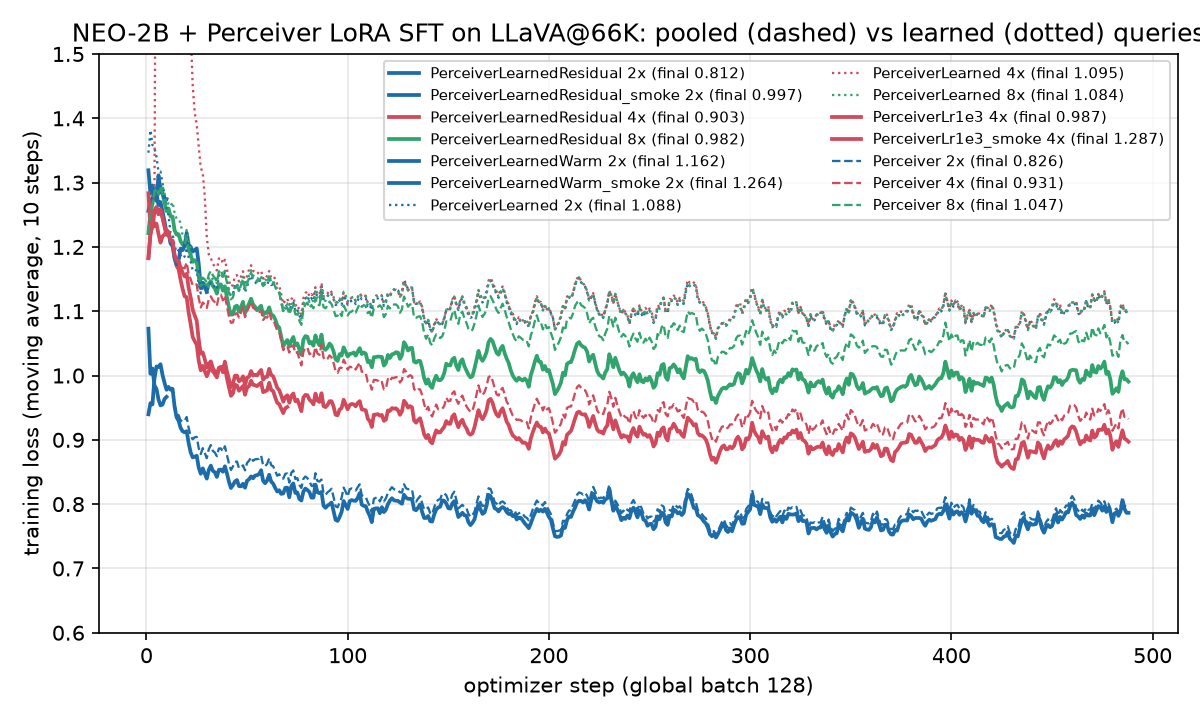
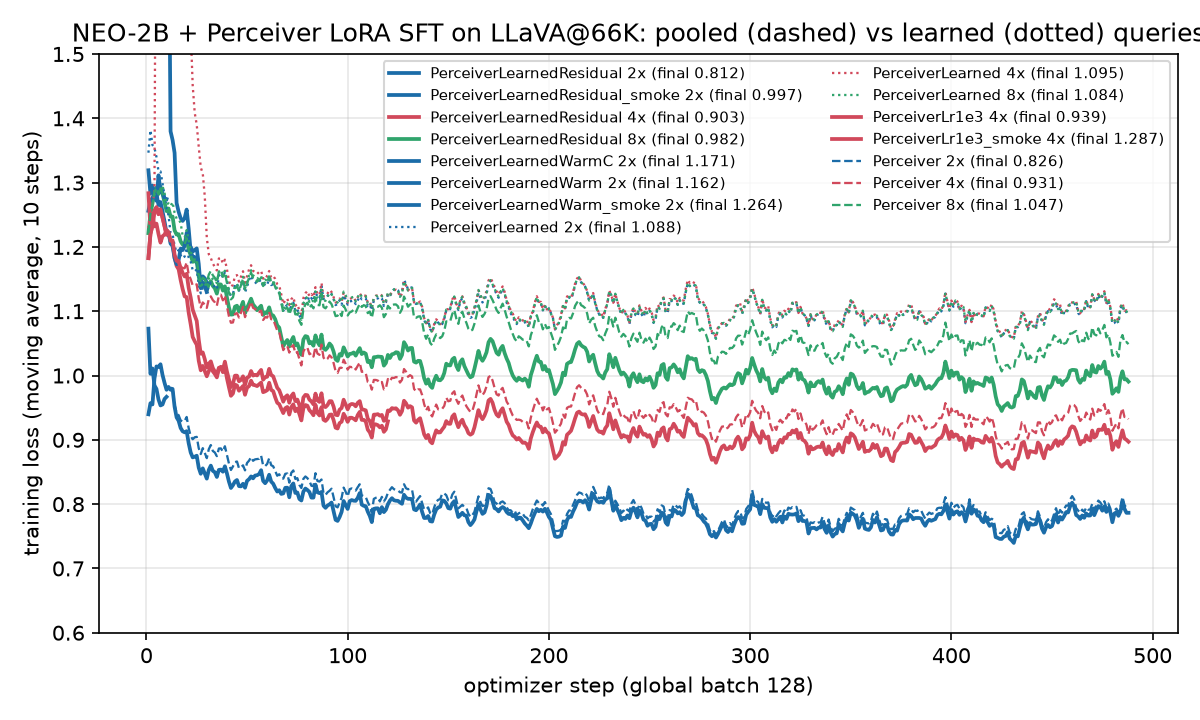
perceiver-learned: e010 DONE, NO-GO (steps 25-37 mean 1.158, +0.015 vs uncentred warm; step-1 loss 5.35; probe 8495437: outputs re-collapse to cosine 0.9995 by step 30, item 3 closed in all forms); e009 seg1 at step 127 (paired -0.009 vs learned_residual 4x); e011 = 8x lr-only pooled control (record

diff --git a/research/experiments/perceiver-learned/RESULTS.md b/research/experiments/perceiver-learned/RESULTS.md
@@ -1,16 +1,17 @@
 # Results: perceiver-learned
 
-Generated by research-results from 10 records. Do not edit by hand.
+Generated by research-results from 11 records. Do not edit by hand.
 
-| id | batch | parent | status | sha | gpu_hours | loss_learned_trained | loss_learned_zeros | loss_learned_noise | loss_pooled_trained | loss_pooled_zeros | loss_base_fixed2x | loss_base_fixed2x_zeros | loss_base_learned_init | loss_base_none | learned_output_pairwise_cosine | learned_init_output_pairwise_cosine | learned_attn_entropy_over_logN | pooled_output_pairwise_cosine | pooled_attn_entropy_over_logN | learned_latents_rms_after_training | smoke_loss_steps1to5_mean | smoke_loss_max_steps1to16 | smoke_sec_per_step | resume_step11_loss_delta | final_loss_ma10 | final_loss_ma50 | pooled2x_final_loss_ma10 | train_sec_per_step | train_hours | mmbench | docvqa | pooled2x_mmbench | pooled2x_docvqa | gate_passed | probe_residual_trained | probe_residual_no_latents | probe_residual_fixed | probe_residual_zeros | probe_pooled_trained | probe_delta_trained_minus_no_latents | probe_delta_trained_minus_fixed | probe_delta_trained_minus_pooled | latent_term_rms_over_pooled_query_rms | latents_rms | attn_gate_tanh | mlp_gate_tanh | residual_attn_entropy_over_logN | residual_attn_max_weight | residual_output_cosine_to_fixed_pooling | residual_output_rel_rms_change_from_fixed_pooling | mlp_branch_rms_unit_input | implied_native_token_rms | mme | mmmu | rwqa | textvqa | ocrbench | chartqa | pooled2x_mme | pooled2x_mmmu | pooled2x_rwqa | pooled2x_textvqa | pooled2x_ocrbench | pooled2x_chartqa | steps_done | sec_per_step | pooled4x_final_loss_ma10 | collapsed4x_final_loss_ma10 | paired_vs_pooled4x_steps1to488 | paired_vs_pooled4x_steps326to488 | paired_vs_pooled4x_sd_steps326to488 | paired_vs_collapsed4x_steps1to488 | pooled4x_mmbench | pooled4x_mme | pooled4x_mmmu | pooled4x_rwqa | pooled4x_textvqa | pooled4x_docvqa | pooled4x_ocrbench | pooled4x_chartqa | item4_criterion_met | warm_native_rms | warm_mean_grid_rms_raw | warm_mean_grid_spatial_dev_rms | warm_scale | warm_n_images | smoke_loss_steps6to10_mean | smoke_loss_steps11to15_mean | smoke_loss_max_steps1to15 | smoke_steps_done | resid_smoke_steps11to15_mean | collapsed2x_steps11to15_mean | chain_submitted | pooled8x_final_loss_ma10 | collapsed8x_final_loss_ma10 | paired_vs_pooled8x_steps1to200 | paired_vs_pooled8x_steps1to488 | paired_vs_pooled8x_steps326to488 | paired_vs_pooled8x_sd_steps326to488 | paired_vs_collapsed8x_steps1to488 | pooled8x_mmbench | pooled8x_mme | pooled8x_mmmu | pooled8x_rwqa | pooled8x_textvqa | pooled8x_docvqa | pooled8x_ocrbench | pooled8x_chartqa | eval_tasks_done | eval_gpu_hours | predictions_hit | predictions_total | loss_steps1to5_mean | loss_steps6to10_mean | loss_steps11to24_mean | loss_steps25to37_mean | loss_steps1to39_mean | collapsed2x_steps25to37_mean | pooled2x_steps25to37_mean | resid2x_steps25to37_mean | paired_vs_collapsed_steps25to37 | paired_vs_collapsed_sd | paired_vs_pooled_steps25to37 | o_proj_weight_rms_step30 | o_proj_weight_rms_pooled_trained | mlp2_weight_rms_step30 | mlp2_weight_rms_pooled_trained | latents_delta_rms_step30 | loss_warm_trained | loss_warm_zeros | loss_warm_noise | loss_warm_init_trained | paired_warm_minus_zeros | paired_warm_minus_noise | paired_warm_minus_learned | paired_warm_minus_warm_init | warm30_attn_entropy_over_logN | warm30_attn_max_weight | warm30_output_pairwise_cosine | warm30_query_pairwise_cosine | warm30_output_cosine_to_fixed_pooling | warm30_output_rms_over_native_rms | warm_init_attn_entropy_over_logN | warm_init_attn_max_weight | warm_init_output_pairwise_cosine | warm_init_output_cosine_to_fixed_pooling | smoke_steps | smoke_loss_mean_1to5 | smoke_loss_max | smoke_grad_norm_max | seg1_sec_per_step | seg1_steps1to2_bit_identical_to_pooled4x | seg1_step30_paired_vs_pooled4x_1to30 | seg1_step30_paired_vs_learned_residual4x_1to30 | seg1_step30_paired_vs_pooled4x_21to30 | seg1_step70_paired_vs_pooled4x_1to70 | seg1_step70_paired_vs_learned_residual4x_1to70 | seg1_step70_paired_vs_pooled4x_41to70 | seg1_step70_paired_vs_learned_residual4x_41to70 | init_latent_rms_before | init_latent_rms_after | init_spatial_dev_rms | init_cell_pairwise_cosine_before | init_cell_pairwise_cosine_after | hypothesis |
-|---|---|---|---|---|---|---|---|---|---|---|---|---|---|---|---|---|---|---|---|---|---|---|---|---|---|---|---|---|---|---|---|---|---|---|---|---|---|---|---|---|---|---|---|---|---|---|---|---|---|---|---|---|---|---|---|---|---|---|---|---|---|---|---|---|---|---|---|---|---|---|---|---|---|---|---|---|---|---|---|---|---|---|---|---|---|---|---|---|---|---|---|---|---|---|---|---|---|---|---|---|---|---|---|---|---|---|---|---|---|---|---|---|---|---|---|---|---|---|---|---|---|---|---|---|---|---|---|---|---|---|---|---|---|---|---|---|---|---|---|---|---|---|---|---|---|---|---|---|---|---|---|---|---|---|---|---|---|---|---|---|---|---|---|---|---|
-| e001 | b001 |  | done | 94091f4 | 0.1 | 0.9583 | 1.224 | 1.025 | 0.6443 | 1.341 | 0.8225 | 1.431 | 1.22 | 0.7184 | 0.9999 | 0.9953 | 0.9902 | 0.69 | 0.957 | 0.02 |  |  |  |  |  |  |  |  |  |  |  |  |  |  |  |  |  |  |  |  |  |  |  |  |  |  |  |  |  |  |  |  |  |  |  |  |  |  |  |  |  |  |  |  |  |  |  |  |  |  |  |  |  |  |  |  |  |  |  |  |  |  |  |  |  |  |  |  |  |  |  |  |  |  |  |  |  |  |  |  |  |  |  |  |  |  |  |  |  |  |  |  |  |  |  |  |  |  |  |  |  |  |  |  |  |  |  |  |  |  |  |  |  |  |  |  |  |  |  |  |  |  |  |  |  |  |  |  |  |  |  |  |  |  |  |  |  |  |  |  |  |  |  |  | Tests cause (a) of the direction doc (signal, not optimisation): the LLM under the PerceiverLearned-2x LoRA has |
-| e002 | b002 | e001 | done | 43311d8 | 14.98 |  |  |  |  |  |  |  |  |  |  |  |  |  |  |  | 0.979 | 1.094 | 89 | 0 | 0.7865 | 0.7835 | 0.7948 | 86.9 | 12 | 73.37 | 40 | 74.31 | 37.33 | 1 |  |  |  |  |  |  |  |  |  |  |  |  |  |  |  |  |  |  |  |  |  |  |  |  |  |  |  |  |  |  |  |  |  |  |  |  |  |  |  |  |  |  |  |  |  |  |  |  |  |  |  |  |  |  |  |  |  |  |  |  |  |  |  |  |  |  |  |  |  |  |  |  |  |  |  |  |  |  |  |  |  |  |  |  |  |  |  |  |  |  |  |  |  |  |  |  |  |  |  |  |  |  |  |  |  |  |  |  |  |  |  |  |  |  |  |  |  |  |  |  |  |  |  |  |  |  |  |  |  |  | Tests causes (a)+(b) together (backlog item 2): a Perceiver whose learned latent queries are a zero-initialised |
-| e003 | b003 | e002 | done | 12a1540 | 2.44 |  |  |  |  |  |  |  |  |  |  |  |  |  |  |  |  |  |  |  |  |  |  |  |  | 73.37 | 40 |  |  |  | 0.635 | 0.6361 | 0.6661 | 1.332 | 0.6443 | -0.001 | -0.0311 | -0.0093 | 0.0023 | 0.0129 | 0.0001 | 0.01 | 0.0255 | 0.928 | 0.946 | 0.33 | 19.4 | 4.66 | 1527 | 47 | 59.22 | 33.42 | 20.7 | 40.24 | 1524 | 46.89 | 57.65 | 32.38 | 20.8 | 40.12 |  |  |  |  |  |  |  |  |  |  |  |  |  |  |  |  |  |  |  |  |  |  |  |  |  |  |  |  |  |  |  |  |  |  |  |  |  |  |  |  |  |  |  |  |  |  |  |  |  |  |  |  |  |  |  |  |  |  |  |  |  |  |  |  |  |  |  |  |  |  |  |  |  |  |  |  |  |  |  |  |  |  |  |  |  |  |  |  |  |  |  |  |  |  |  |  |  |  |  |  | Follow-up to e002 (cause (b) fixed by construction, gate passed). Two questions. (1) Mechanism: the latents of the |
-| e004 | b004 | e002 | done | 12a1540 | 16.81 |  |  |  |  |  |  |  |  |  |  |  |  |  |  |  |  |  |  |  | 0.897 | 0.9022 |  |  | 12.25 | 66.92 | 16.23 |  |  |  |  |  |  |  |  |  |  |  |  |  |  |  |  |  |  |  |  |  | 1408 | 44 | 52.03 | 16.77 | 3.6 | 22.36 |  |  |  |  |  |  | 488 | 87.2 | 0.9323 | 1.096 | -0.0433 | -0.0333 | 0.0105 | -0.2389 | 64.6 | 1371 | 44.67 | 51.37 | 15.63 | 14.27 | 2.8 | 21.52 | 0 |  |  |  |  |  |  |  |  |  |  |  |  |  |  |  |  |  |  |  |  |  |  |  |  |  |  |  |  |  |  |  |  |  |  |  |  |  |  |  |  |  |  |  |  |  |  |  |  |  |  |  |  |  |  |  |  |  |  |  |  |  |  |  |  |  |  |  |  |  |  |  |  |  |  |  |  |  |  |  |  |  |  |  | Backlog item 4, first half: the fix of e002 (pooled-anchored learned queries, init = fixed pooling) carries to 4x, |
-| e005 | b005 | e003 | done | 99d7de0 | 0.47 |  |  |  |  |  |  |  |  |  |  |  |  |  |  |  | 1.272 |  | 89.5 |  |  |  |  |  |  |  |  |  |  |  |  |  |  |  |  |  |  |  |  |  |  |  |  |  |  |  |  |  |  |  |  |  |  |  |  |  |  |  |  |  |  |  |  |  |  |  |  |  |  |  |  |  |  |  |  |  |  | 4.521 | 2.941 | 0.5304 | 1.537 | 256 | 1.277 | 1.236 | 1.509 | 15 | 0.93 | 1.202 | 0 |  |  |  |  |  |  |  |  |  |  |  |  |  |  |  |  |  |  |  |  |  |  |  |  |  |  |  |  |  |  |  |  |  |  |  |  |  |  |  |  |  |  |  |  |  |  |  |  |  |  |  |  |  |  |  |  |  |  |  |  |  |  |  |  |  |  |  |  |  |  |  | Backlog item 3, tests cause (b) in isolation on the paper-faithful architecture: the `learned` Perceiver (image-independ |
-| e006 | b006 | e004 | done | 503ea57 | 16.98 |  |  |  |  |  |  |  |  |  |  |  |  |  |  |  |  |  |  |  | 0.9905 | 0.9957 |  |  | 12.25 | 58.16 | 10.92 |  |  |  |  |  |  |  |  |  |  |  |  |  |  |  |  |  |  |  |  |  | 1227 | 43.44 | 47.84 | 12.26 | 2 | 14.32 |  |  |  |  |  |  | 488 | 87.3 |  |  |  |  |  |  |  |  |  |  |  |  |  |  |  |  |  |  |  |  |  |  |  |  |  |  |  | 1.049 | 1.094 | -0.0521 | -0.0568 | -0.0587 | 0.0113 | -0.0904 | 44.07 | 1050 | 42.22 | 47.97 | 10.59 | 9.78 | 1.9 | 13.56 | 8 | 4.73 | 9 | 13 |  |  |  |  |  |  |  |  |  |  |  |  |  |  |  |  |  |  |  |  |  |  |  |  |  |  |  |  |  |  |  |  |  |  |  |  |  |  |  |  |  |  |  |  |  |  |  |  |  |  |  |  | Backlog item 4, second half: the e002 fix (pooled-anchored learned queries, init = fixed pooling, compressor lr 1e-3) |
-| e007 | b007 | e005 | done | 503ea57 | 1 |  |  |  |  |  |  |  |  |  |  |  |  |  |  |  |  |  |  |  |  |  |  |  |  |  |  |  |  |  |  |  |  |  |  |  |  |  |  | 4.521 |  |  |  |  |  |  |  |  |  |  |  |  |  |  |  |  |  |  |  |  | 39 | 87.5 |  |  |  |  |  |  |  |  |  |  |  |  |  |  |  |  |  |  |  |  |  |  |  |  |  |  | 0 |  |  |  |  |  |  |  |  |  |  |  |  |  |  |  |  |  |  |  | 1.282 | 1.161 | 1.192 | 1.143 | 1.182 | 1.147 | 0.8846 | 0.8525 | -0.0036 | 0.0073 | 0.2587 | 0.00483 | 0.01277 | 0.00469 | 0.0064 | 0.0038 |  |  |  |  |  |  |  |  |  |  |  |  |  |  |  |  |  |  |  |  |  |  |  |  |  |  |  |  |  |  |  |  |  |  |  |  | Closes the gap e005 left open. The e005 smoke stopped at step 15 with the loss flat at 1.24, but with `o_proj` and `mlp. |
-| e008 | b008 | e007 | done | d25f75d | 0.09 | 0.9583 | 1.224 |  |  |  |  |  |  |  | 0.9999 |  | 0.9902 |  |  |  |  |  |  |  |  |  |  |  |  |  |  |  |  |  |  |  |  |  |  |  |  |  |  |  |  |  |  |  |  |  |  |  |  |  |  |  |  |  |  |  |  |  |  |  |  |  |  |  |  |  |  |  |  |  |  |  |  |  |  |  |  |  |  |  |  |  |  |  |  |  |  |  |  |  |  |  |  |  |  |  |  |  |  |  |  |  |  |  |  |  |  |  |  |  |  |  |  |  |  |  |  |  |  |  |  |  |  |  | 1.009 | 1.338 | 1.079 | 1.159 | -0.3287 | -0.0703 | 0.0508 | -0.1501 | 0.108 | 0.7413 | 0.9938 | 0.9768 | 0.1773 | 1.008 | 0.9344 | 0.007 | 0.9768 | 0.7602 |  |  |  |  |  |  |  |  |  |  |  |  |  |  |  |  |  |  | Measurement behind the e007 interpretation. The warm-started paper-faithful `learned` module at step 30 emits, like the |
-| e009 | b009 | e004 | submitted | ae62a23 | 0.34 |  |  |  |  |  |  |  |  |  |  |  |  |  |  |  |  |  | 87.5 |  |  |  |  |  |  |  |  |  |  |  |  |  |  |  |  |  |  |  |  |  |  |  |  |  |  |  |  |  |  |  |  |  |  |  |  |  |  |  |  |  |  |  |  |  |  |  |  |  |  |  |  |  |  |  |  |  |  |  |  |  |  |  |  |  |  |  |  |  |  |  |  |  |  |  |  |  |  |  |  |  |  |  |  |  |  |  |  |  |  |  |  |  |  |  |  |  |  |  |  |  |  |  |  |  |  |  |  |  |  |  |  |  |  |  |  |  |  |  |  |  |  |  | 12 | 1.236 | 1.36 | 1.53 | 88.4 | 1 | -0.0366 | 0.0168 | -0.0928 | -0.0783 | -0.0021 | -0.1088 | -0.0182 |  |  |  |  |  | The lr-only control for the learned_residual gains. e003 measured that the trained learned_residual 2x module is fixed p |
-| e010 | b010 | e008 | submitted | 28ed0b7 |  |  |  |  |  |  |  |  |  |  |  |  |  |  |  |  |  |  |  |  |  |  |  |  |  |  |  |  |  |  |  |  |  |  |  |  |  |  |  |  |  |  |  |  |  |  |  |  |  |  |  |  |  |  |  |  |  |  |  |  |  |  |  |  |  |  |  |  |  |  |  |  |  |  |  |  |  |  |  |  |  |  |  |  |  |  |  |  |  |  |  |  |  |  |  |  |  |  |  |  |  |  |  |  |  |  |  |  |  |  |  |  |  |  |  |  |  |  |  |  |  |  |  |  |  |  |  |  |  |  |  |  |  |  |  |  |  |  |  |  |  |  |  |  |  |  |  |  |  |  |  |  |  |  |  | 4.521 | 0.8154 | 0.8154 | 0.9764 | 0.0006 | Backlog item 3b, the cheap test e008 asked for. e008 measured why the warm-started paper-faithful module (e005/e007) sta |
+| id | batch | parent | status | sha | gpu_hours | loss_learned_trained | loss_learned_zeros | loss_learned_noise | loss_pooled_trained | loss_pooled_zeros | loss_base_fixed2x | loss_base_fixed2x_zeros | loss_base_learned_init | loss_base_none | learned_output_pairwise_cosine | learned_init_output_pairwise_cosine | learned_attn_entropy_over_logN | pooled_output_pairwise_cosine | pooled_attn_entropy_over_logN | learned_latents_rms_after_training | smoke_loss_steps1to5_mean | smoke_loss_max_steps1to16 | smoke_sec_per_step | resume_step11_loss_delta | final_loss_ma10 | final_loss_ma50 | pooled2x_final_loss_ma10 | train_sec_per_step | train_hours | mmbench | docvqa | pooled2x_mmbench | pooled2x_docvqa | gate_passed | probe_residual_trained | probe_residual_no_latents | probe_residual_fixed | probe_residual_zeros | probe_pooled_trained | probe_delta_trained_minus_no_latents | probe_delta_trained_minus_fixed | probe_delta_trained_minus_pooled | latent_term_rms_over_pooled_query_rms | latents_rms | attn_gate_tanh | mlp_gate_tanh | residual_attn_entropy_over_logN | residual_attn_max_weight | residual_output_cosine_to_fixed_pooling | residual_output_rel_rms_change_from_fixed_pooling | mlp_branch_rms_unit_input | implied_native_token_rms | mme | mmmu | rwqa | textvqa | ocrbench | chartqa | pooled2x_mme | pooled2x_mmmu | pooled2x_rwqa | pooled2x_textvqa | pooled2x_ocrbench | pooled2x_chartqa | steps_done | sec_per_step | pooled4x_final_loss_ma10 | collapsed4x_final_loss_ma10 | paired_vs_pooled4x_steps1to488 | paired_vs_pooled4x_steps326to488 | paired_vs_pooled4x_sd_steps326to488 | paired_vs_collapsed4x_steps1to488 | pooled4x_mmbench | pooled4x_mme | pooled4x_mmmu | pooled4x_rwqa | pooled4x_textvqa | pooled4x_docvqa | pooled4x_ocrbench | pooled4x_chartqa | item4_criterion_met | warm_native_rms | warm_mean_grid_rms_raw | warm_mean_grid_spatial_dev_rms | warm_scale | warm_n_images | smoke_loss_steps6to10_mean | smoke_loss_steps11to15_mean | smoke_loss_max_steps1to15 | smoke_steps_done | resid_smoke_steps11to15_mean | collapsed2x_steps11to15_mean | chain_submitted | pooled8x_final_loss_ma10 | collapsed8x_final_loss_ma10 | paired_vs_pooled8x_steps1to200 | paired_vs_pooled8x_steps1to488 | paired_vs_pooled8x_steps326to488 | paired_vs_pooled8x_sd_steps326to488 | paired_vs_collapsed8x_steps1to488 | pooled8x_mmbench | pooled8x_mme | pooled8x_mmmu | pooled8x_rwqa | pooled8x_textvqa | pooled8x_docvqa | pooled8x_ocrbench | pooled8x_chartqa | eval_tasks_done | eval_gpu_hours | predictions_hit | predictions_total | loss_steps1to5_mean | loss_steps6to10_mean | loss_steps11to24_mean | loss_steps25to37_mean | loss_steps1to39_mean | collapsed2x_steps25to37_mean | pooled2x_steps25to37_mean | resid2x_steps25to37_mean | paired_vs_collapsed_steps25to37 | paired_vs_collapsed_sd | paired_vs_pooled_steps25to37 | o_proj_weight_rms_step30 | o_proj_weight_rms_pooled_trained | mlp2_weight_rms_step30 | mlp2_weight_rms_pooled_trained | latents_delta_rms_step30 | loss_warm_trained | loss_warm_zeros | loss_warm_noise | loss_warm_init_trained | paired_warm_minus_zeros | paired_warm_minus_noise | paired_warm_minus_learned | paired_warm_minus_warm_init | warm30_attn_entropy_over_logN | warm30_attn_max_weight | warm30_output_pairwise_cosine | warm30_query_pairwise_cosine | warm30_output_cosine_to_fixed_pooling | warm30_output_rms_over_native_rms | warm_init_attn_entropy_over_logN | warm_init_attn_max_weight | warm_init_output_pairwise_cosine | warm_init_output_cosine_to_fixed_pooling | smoke_steps | smoke_loss_mean_1to5 | smoke_loss_max | smoke_grad_norm_max | seg1_sec_per_step | seg1_steps1to2_bit_identical_to_pooled4x | seg1_step30_paired_vs_pooled4x_1to30 | seg1_step30_paired_vs_learned_residual4x_1to30 | seg1_step30_paired_vs_pooled4x_21to30 | seg1_step70_paired_vs_pooled4x_1to70 | seg1_step70_paired_vs_learned_residual4x_1to70 | seg1_step70_paired_vs_pooled4x_41to70 | seg1_step70_paired_vs_learned_residual4x_41to70 | init_latent_rms_before | init_latent_rms_after | init_spatial_dev_rms | init_cell_pairwise_cosine_before | init_cell_pairwise_cosine_after | loss_step1 | loss_steps3to39_mean | grad_norm_step1 | grad_norm_max_steps5to12 | warm2x_steps25to37_mean | paired_vs_warm_steps25to37 | paired_vs_warm_sd | hypothesis |
+|---|---|---|---|---|---|---|---|---|---|---|---|---|---|---|---|---|---|---|---|---|---|---|---|---|---|---|---|---|---|---|---|---|---|---|---|---|---|---|---|---|---|---|---|---|---|---|---|---|---|---|---|---|---|---|---|---|---|---|---|---|---|---|---|---|---|---|---|---|---|---|---|---|---|---|---|---|---|---|---|---|---|---|---|---|---|---|---|---|---|---|---|---|---|---|---|---|---|---|---|---|---|---|---|---|---|---|---|---|---|---|---|---|---|---|---|---|---|---|---|---|---|---|---|---|---|---|---|---|---|---|---|---|---|---|---|---|---|---|---|---|---|---|---|---|---|---|---|---|---|---|---|---|---|---|---|---|---|---|---|---|---|---|---|---|---|---|---|---|---|---|---|---|
+| e001 | b001 |  | done | 94091f4 | 0.1 | 0.9583 | 1.224 | 1.025 | 0.6443 | 1.341 | 0.8225 | 1.431 | 1.22 | 0.7184 | 0.9999 | 0.9953 | 0.9902 | 0.69 | 0.957 | 0.02 |  |  |  |  |  |  |  |  |  |  |  |  |  |  |  |  |  |  |  |  |  |  |  |  |  |  |  |  |  |  |  |  |  |  |  |  |  |  |  |  |  |  |  |  |  |  |  |  |  |  |  |  |  |  |  |  |  |  |  |  |  |  |  |  |  |  |  |  |  |  |  |  |  |  |  |  |  |  |  |  |  |  |  |  |  |  |  |  |  |  |  |  |  |  |  |  |  |  |  |  |  |  |  |  |  |  |  |  |  |  |  |  |  |  |  |  |  |  |  |  |  |  |  |  |  |  |  |  |  |  |  |  |  |  |  |  |  |  |  |  |  |  |  |  |  |  |  |  |  |  |  | Tests cause (a) of the direction doc (signal, not optimisation): the LLM under the PerceiverLearned-2x LoRA has |
+| e002 | b002 | e001 | done | 43311d8 | 14.98 |  |  |  |  |  |  |  |  |  |  |  |  |  |  |  | 0.979 | 1.094 | 89 | 0 | 0.7865 | 0.7835 | 0.7948 | 86.9 | 12 | 73.37 | 40 | 74.31 | 37.33 | 1 |  |  |  |  |  |  |  |  |  |  |  |  |  |  |  |  |  |  |  |  |  |  |  |  |  |  |  |  |  |  |  |  |  |  |  |  |  |  |  |  |  |  |  |  |  |  |  |  |  |  |  |  |  |  |  |  |  |  |  |  |  |  |  |  |  |  |  |  |  |  |  |  |  |  |  |  |  |  |  |  |  |  |  |  |  |  |  |  |  |  |  |  |  |  |  |  |  |  |  |  |  |  |  |  |  |  |  |  |  |  |  |  |  |  |  |  |  |  |  |  |  |  |  |  |  |  |  |  |  |  |  |  |  |  |  |  |  | Tests causes (a)+(b) together (backlog item 2): a Perceiver whose learned latent queries are a zero-initialised |
+| e003 | b003 | e002 | done | 12a1540 | 2.44 |  |  |  |  |  |  |  |  |  |  |  |  |  |  |  |  |  |  |  |  |  |  |  |  | 73.37 | 40 |  |  |  | 0.635 | 0.6361 | 0.6661 | 1.332 | 0.6443 | -0.001 | -0.0311 | -0.0093 | 0.0023 | 0.0129 | 0.0001 | 0.01 | 0.0255 | 0.928 | 0.946 | 0.33 | 19.4 | 4.66 | 1527 | 47 | 59.22 | 33.42 | 20.7 | 40.24 | 1524 | 46.89 | 57.65 | 32.38 | 20.8 | 40.12 |  |  |  |  |  |  |  |  |  |  |  |  |  |  |  |  |  |  |  |  |  |  |  |  |  |  |  |  |  |  |  |  |  |  |  |  |  |  |  |  |  |  |  |  |  |  |  |  |  |  |  |  |  |  |  |  |  |  |  |  |  |  |  |  |  |  |  |  |  |  |  |  |  |  |  |  |  |  |  |  |  |  |  |  |  |  |  |  |  |  |  |  |  |  |  |  |  |  |  |  |  |  |  |  |  |  |  | Follow-up to e002 (cause (b) fixed by construction, gate passed). Two questions. (1) Mechanism: the latents of the |
+| e004 | b004 | e002 | done | 12a1540 | 16.81 |  |  |  |  |  |  |  |  |  |  |  |  |  |  |  |  |  |  |  | 0.897 | 0.9022 |  |  | 12.25 | 66.92 | 16.23 |  |  |  |  |  |  |  |  |  |  |  |  |  |  |  |  |  |  |  |  |  | 1408 | 44 | 52.03 | 16.77 | 3.6 | 22.36 |  |  |  |  |  |  | 488 | 87.2 | 0.9323 | 1.096 | -0.0433 | -0.0333 | 0.0105 | -0.2389 | 64.6 | 1371 | 44.67 | 51.37 | 15.63 | 14.27 | 2.8 | 21.52 | 0 |  |  |  |  |  |  |  |  |  |  |  |  |  |  |  |  |  |  |  |  |  |  |  |  |  |  |  |  |  |  |  |  |  |  |  |  |  |  |  |  |  |  |  |  |  |  |  |  |  |  |  |  |  |  |  |  |  |  |  |  |  |  |  |  |  |  |  |  |  |  |  |  |  |  |  |  |  |  |  |  |  |  |  |  |  |  |  |  |  |  | Backlog item 4, first half: the fix of e002 (pooled-anchored learned queries, init = fixed pooling) carries to 4x, |
+| e005 | b005 | e003 | done | 99d7de0 | 0.47 |  |  |  |  |  |  |  |  |  |  |  |  |  |  |  | 1.272 |  | 89.5 |  |  |  |  |  |  |  |  |  |  |  |  |  |  |  |  |  |  |  |  |  |  |  |  |  |  |  |  |  |  |  |  |  |  |  |  |  |  |  |  |  |  |  |  |  |  |  |  |  |  |  |  |  |  |  |  |  |  | 4.521 | 2.941 | 0.5304 | 1.537 | 256 | 1.277 | 1.236 | 1.509 | 15 | 0.93 | 1.202 | 0 |  |  |  |  |  |  |  |  |  |  |  |  |  |  |  |  |  |  |  |  |  |  |  |  |  |  |  |  |  |  |  |  |  |  |  |  |  |  |  |  |  |  |  |  |  |  |  |  |  |  |  |  |  |  |  |  |  |  |  |  |  |  |  |  |  |  |  |  |  |  |  |  |  |  |  |  |  |  | Backlog item 3, tests cause (b) in isolation on the paper-faithful architecture: the `learned` Perceiver (image-independ |
+| e006 | b006 | e004 | done | 503ea57 | 16.98 |  |  |  |  |  |  |  |  |  |  |  |  |  |  |  |  |  |  |  | 0.9905 | 0.9957 |  |  | 12.25 | 58.16 | 10.92 |  |  |  |  |  |  |  |  |  |  |  |  |  |  |  |  |  |  |  |  |  | 1227 | 43.44 | 47.84 | 12.26 | 2 | 14.32 |  |  |  |  |  |  | 488 | 87.3 |  |  |  |  |  |  |  |  |  |  |  |  |  |  |  |  |  |  |  |  |  |  |  |  |  |  |  | 1.049 | 1.094 | -0.0521 | -0.0568 | -0.0587 | 0.0113 | -0.0904 | 44.07 | 1050 | 42.22 | 47.97 | 10.59 | 9.78 | 1.9 | 13.56 | 8 | 4.73 | 9 | 13 |  |  |  |  |  |  |  |  |  |  |  |  |  |  |  |  |  |  |  |  |  |  |  |  |  |  |  |  |  |  |  |  |  |  |  |  |  |  |  |  |  |  |  |  |  |  |  |  |  |  |  |  |  |  |  |  |  |  |  | Backlog item 4, second half: the e002 fix (pooled-anchored learned queries, init = fixed pooling, compressor lr 1e-3) |
+| e007 | b007 | e005 | done | 503ea57 | 1 |  |  |  |  |  |  |  |  |  |  |  |  |  |  |  |  |  |  |  |  |  |  |  |  |  |  |  |  |  |  |  |  |  |  |  |  |  |  | 4.521 |  |  |  |  |  |  |  |  |  |  |  |  |  |  |  |  |  |  |  |  | 39 | 87.5 |  |  |  |  |  |  |  |  |  |  |  |  |  |  |  |  |  |  |  |  |  |  |  |  |  |  | 0 |  |  |  |  |  |  |  |  |  |  |  |  |  |  |  |  |  |  |  | 1.282 | 1.161 | 1.192 | 1.143 | 1.182 | 1.147 | 0.8846 | 0.8525 | -0.0036 | 0.0073 | 0.2587 | 0.00483 | 0.01277 | 0.00469 | 0.0064 | 0.0038 |  |  |  |  |  |  |  |  |  |  |  |  |  |  |  |  |  |  |  |  |  |  |  |  |  |  |  |  |  |  |  |  |  |  |  |  |  |  |  |  |  |  |  | Closes the gap e005 left open. The e005 smoke stopped at step 15 with the loss flat at 1.24, but with `o_proj` and `mlp. |
+| e008 | b008 | e007 | done | d25f75d | 0.09 | 0.9583 | 1.224 |  |  |  |  |  |  |  | 0.9999 |  | 0.9902 |  |  |  |  |  |  |  |  |  |  |  |  |  |  |  |  |  |  |  |  |  |  |  |  |  |  |  |  |  |  |  |  |  |  |  |  |  |  |  |  |  |  |  |  |  |  |  |  |  |  |  |  |  |  |  |  |  |  |  |  |  |  |  |  |  |  |  |  |  |  |  |  |  |  |  |  |  |  |  |  |  |  |  |  |  |  |  |  |  |  |  |  |  |  |  |  |  |  |  |  |  |  |  |  |  |  |  |  |  |  |  | 1.009 | 1.338 | 1.079 | 1.159 | -0.3287 | -0.0703 | 0.0508 | -0.1501 | 0.108 | 0.7413 | 0.9938 | 0.9768 | 0.1773 | 1.008 | 0.9344 | 0.007 | 0.9768 | 0.7602 |  |  |  |  |  |  |  |  |  |  |  |  |  |  |  |  |  |  |  |  |  |  |  |  |  | Measurement behind the e007 interpretation. The warm-started paper-faithful `learned` module at step 30 emits, like the |
+| e009 | b009 | e004 | submitted | ae62a23 | 0.34 |  |  |  |  |  |  |  |  |  |  |  |  |  |  |  |  |  | 87.5 |  |  |  |  |  |  |  |  |  |  |  |  |  |  |  |  |  |  |  |  |  |  |  |  |  |  |  |  |  |  |  |  |  |  |  |  |  |  |  |  |  |  |  |  |  |  |  |  |  |  |  |  |  |  |  |  |  |  |  |  |  |  |  |  |  |  |  |  |  |  |  |  |  |  |  |  |  |  |  |  |  |  |  |  |  |  |  |  |  |  |  |  |  |  |  |  |  |  |  |  |  |  |  |  |  |  |  |  |  |  |  |  |  |  |  |  |  |  |  |  |  |  |  | 12 | 1.236 | 1.36 | 1.53 | 88.4 | 1 | -0.0366 | 0.0168 | -0.0928 | -0.0783 | -0.0021 | -0.1088 | -0.0182 |  |  |  |  |  |  |  |  |  |  |  |  | The lr-only control for the learned_residual gains. e003 measured that the trained learned_residual 2x module is fixed p |
+| e010 | b010 | e008 | done | 28ed0b7 | 1.07 |  |  |  |  |  |  |  |  |  |  |  |  |  |  |  |  |  |  |  |  |  |  |  |  |  |  |  |  |  |  |  |  |  |  |  |  |  |  |  |  |  |  |  |  |  |  |  |  |  |  |  |  |  |  |  |  |  |  |  | 39 | 88.5 |  |  |  |  |  |  |  |  |  |  |  |  |  |  |  |  |  |  |  |  |  |  |  |  |  |  | 0 |  |  |  |  |  |  |  |  |  |  |  |  |  |  |  |  |  | 5 | 8 | 3.099 | 1.236 | 1.222 | 1.158 |  | 1.147 |  |  | 0.0114 | 0.0071 | 0.2737 |  |  |  |  |  | 1.024 | 1.376 | 1.083 | 5.071 | -0.352 | -0.0592 | 0.0652 |  | 0.239 | 0.512 | 0.9995 | 0.0001 | 0.069 |  | 0.976 |  | 0.0001 | 0 |  |  |  |  |  |  |  |  |  |  |  |  |  | 4.521 | 0.8154 | 0.8154 | 0.9764 | 0.0006 | 5.353 | 1.23 | 63.5 | 25.3 | 1.143 | 0.015 | 0.0058 | Backlog item 3b, the cheap test e008 asked for. e008 measured why the warm-started paper-faithful module (e005/e007) sta |
+| e011 | b011 | e009 | planned |  |  |  |  |  |  |  |  |  |  |  |  |  |  |  |  |  |  |  |  |  |  |  |  |  |  |  |  |  |  |  |  |  |  |  |  |  |  |  |  |  |  |  |  |  |  |  |  |  |  |  |  |  |  |  |  |  |  |  |  |  |  |  |  |  |  |  |  |  |  |  |  |  |  |  |  |  |  |  |  |  |  |  |  |  |  |  |  |  |  |  |  |  |  |  |  |  |  |  |  |  |  |  |  |  |  |  |  |  |  |  |  |  |  |  |  |  |  |  |  |  |  |  |  |  |  |  |  |  |  |  |  |  |  |  |  |  |  |  |  |  |  |  |  |  |  |  |  |  |  |  |  |  |  |  |  |  |  |  |  |  |  |  |  |  |  |  |  | The lr-only control at the ratio where the "learned queries" gain is largest. e006 found the learned_residual 8x row 14. |

diff --git a/research/experiments/perceiver-learned/e010.md b/research/experiments/perceiver-learned/e010.md
@@ -3,11 +3,11 @@ id: e010
 direction: perceiver-learned
 batch: b010
 parent: e008
-status: submitted
+status: done
 created: 2026-11-10T15:40:00
 sha: 28ed0b7
 cluster: ascend
-jobs: [8493342]
+jobs: [8493342, 8495437]
 config:
   tier: init build on the login-node CPU (seconds, no GPU); training tier 2 (debug-nextgen, one 1 h segment of the real run, as e007); the 4 x 4 h nextgen chain resumes from its checkpoint only if the go rule fires
   queries: learned (paper-faithful architecture, warm-started via INIT_FROM, INIT_TAG=C)
@@ -18,8 +18,18 @@ config:
   run_name: NEO_continue_SFT_LLaVA_OV_llava66k_PerceiverLearnedWarmC_2x
   config_key: NEO-2B-SFT-OV-LLaVA-llava66k-PerceiverLearnedWarmC-2x
 metrics: {init_latent_rms_before: 4.5209, init_latent_rms_after: 0.8154, init_spatial_dev_rms: 0.8154,
-  init_cell_pairwise_cosine_before: 0.9764, init_cell_pairwise_cosine_after: 0.0006}
-gpu_hours: null
+  init_cell_pairwise_cosine_before: 0.9764, init_cell_pairwise_cosine_after: 0.0006,
+  steps_done: 39, sec_per_step: 88.5, loss_step1: 5.3531, loss_steps1to5_mean: 3.0987, loss_steps6to10_mean: 1.2357,
+  loss_steps11to24_mean: 1.2221, loss_steps25to37_mean: 1.1583, loss_steps3to39_mean: 1.2297, grad_norm_step1: 63.5,
+  grad_norm_max_steps5to12: 25.3, warm2x_steps25to37_mean: 1.1433, collapsed2x_steps25to37_mean: 1.1469,
+  paired_vs_warm_steps25to37: 0.0150, paired_vs_warm_sd: 0.0058, paired_vs_collapsed_steps25to37: 0.0114,
+  paired_vs_collapsed_sd: 0.0071, paired_vs_pooled_steps25to37: 0.2737, chain_submitted: 0,
+  loss_warm_trained: 1.0236, loss_warm_zeros: 1.3756, loss_warm_noise: 1.0827, loss_warm_init_trained: 5.0708,
+  paired_warm_minus_zeros: -0.3520, paired_warm_minus_noise: -0.0592, paired_warm_minus_learned: 0.0652,
+  warm30_attn_entropy_over_logN: 0.239, warm30_attn_max_weight: 0.512, warm30_output_pairwise_cosine: 0.9995,
+  warm30_query_pairwise_cosine: 0.0001, warm30_output_cosine_to_fixed_pooling: 0.069, warm_init_attn_entropy_over_logN: 0.976,
+  warm_init_output_pairwise_cosine: 0.0001, warm_init_output_cosine_to_fixed_pooling: 0.0, predictions_hit: 5, predictions_total: 8}
+gpu_hours: 1.07
 ---
 ## Hypothesis
 Backlog item 3b, the cheap test e008 asked for. e008 measured why the warm-started paper-faithful module (e005/e007) stays on
@@ -75,8 +85,80 @@ Submitted 15:47 from the OSC checkout at 28ed0b7: 8493342 (`plwc2x_seg0`, debug-
 Log `VLMEvalKit/vlmeval/VLMTrainKit/logs/plwc2x_seg0_8493342.log`, output dir
 `$SCRATCH/VTC-Native-Eval-ckpts/output/NEO_continue_SFT_LLaVA_OV_llava66k_PerceiverLearnedWarmC_2x` (absent at submission).
 
+### 8493342 (debug-nextgen, node a0129, TIMEOUT at 1:00:21 as planned, 1.00 GPU-h)
+Load 3 min, then 88.5 s/step; 39 steps logged, checkpoint-10/20/30 written. Full-data run, so every step is paired with the
+2x curves (`figures/loss_curves.json`) and with the e007 warm run's log (same batches):
+
+| window | centred warm `learned` (this) | warm `learned` (e007) | collapsed `learned` 2x | pooled 2x | `learned_residual` 2x |
+|---|---|---|---|---|---|
+| steps 1-5 | **3.099** (5.353, 5.349, 1.415, 1.360, 2.017) | 1.282 | 1.340 | 1.014 | 1.014 |
+| steps 6-10 | 1.236 | 1.161 | 1.182 | 0.942 | 0.942 |
+| steps 11-24 | 1.222 | 1.192 | 1.174 | 0.914 | 0.890 |
+| **steps 25-37** (go rule) | **1.1583** | 1.1433 | 1.1469 | 0.8846 | 0.8525 |
+| steps 3-39 | 1.230 | 1.177 | 1.177 | | |
+| paired diff vs this, 25-37 | | -0.0150 (sd 0.0058) | -0.0114 (sd 0.0071) | -0.2737 | -0.3058 |
+
+Grad norms: 63.5 and 53.6 at steps 1-2 (loss 5.35, the LLM at lr 0 and 2e-6 receiving the centred grid), 10.5 at step 3, 25.3 at
+step 5 (loss 2.02), 7.0 at step 12 (loss 1.45); 0.3-0.5 from step 13 on, as in e007. Steps 1-2 are at compressor lr 0 and 1e-4,
+so the drop from 5.35 to 1.41 at step 3 is two Adam steps of the compressor (lr 1e-4, 2e-4) plus one LoRA step at 2e-6: the
+module gave up the centred grid at once and returned to the collapsed-run loss level.
+
+Prediction scores: 36-39 steps + checkpoint-30 (0.75): HIT (39). Steps 1-5 mean 1.25-1.40 (0.65): **MISS** (3.10; the init's
+grid is not image-independent-but-harmless, it is actively bad for the frozen LLM, 4 nats above the uncentred grid). Steps 25-37
+in [1.10, 1.25] (the 0.5 branch): HIT (1.158); go branch (< 1.10, 0.3): did not fire. Paired vs e007 below -0.03 (0.35): **MISS**
+(+0.015, sd 0.006: the centred run is slightly *above* the uncentred one, and above the collapsed run by 0.011). Grad-norm spike
+above 5 in steps 5-12 (0.4): HIT (25.3 at step 5, 7.0 at step 12). Go/no-go: **NO-GO**, chain not submitted, backlog item 3b
+closed. 3 of 5 run predictions hit (plus 2 of 2 build predictions). Optional checkpoint-30 probe (0.1 GPU-h): run, see below,
+because it separates "the shared direction is re-created by training" from "the outputs are diverse but unreadable".
+
+### Probe 8495437 (`pl_probe_warmc30`, debug-nextgen, COMPLETED 4:15, 0.07 GPU-h; 208 s of probe time)
+`scripts/perceiver_probe.py` unchanged (e008 command with the WarmC checkpoint-30 and the centred init bin), submitted 17:08 from
+the OSC checkout at 28ed0b7 after the `--help` check from /tmp; results `$SCRATCH/VTC-Native-Eval-ckpts/probes/perceiver_probe_8495437.json`.
+Same 128 samples as e001/e003/e008 (learned/trained reproduces 0.9583 exactly).
+
+| condition | loss | paired vs warm/trained: mean (sd) |
+|---|---|---|
+| warm/trained (WarmC step-30 adapter + module) | 1.0236 | |
+| warm/zeros | 1.3756 | -0.352 (0.480) |
+| warm/noise (native-RMS Gaussian) | 1.0827 | -0.059 (0.127) |
+| warm-init/trained (centred init module, no adapter) | **5.0708** | -4.047 (2.164) |
+| learned/trained (collapsed run, 488-step adapter) | 0.9583 | +0.065 (0.109) |
+| e008 for comparison: warm (uncentred) step 30 | 1.0091 | |
+
+| stat (32 images) | WarmC step 30 | WarmC step 0 (centred init) | warm step 30 (e008) | warm step 0 (e008) | collapsed `learned` 488 (e001) |
+|---|---|---|---|---|---|
+| attention entropy / log N, max weight | 0.239, 0.512 | 0.976, 0.003 | 0.108, 0.741 | 0.934, 0.007 | 0.990, 0.002 |
+| output pairwise cosine | **0.9995** | **0.0001** | 0.9938 | 0.9768 | 0.9999 |
+| query pairwise cosine | 0.0001 | 0.0001 | 0.9768 | 0.9768 | 0.0021 |
+| output cosine to fixed pooling | 0.069 | 0.000 | 0.177 | 0.760 | 0.095 |
+| output RMS / native RMS | 1.009 | 1.000 | 1.009 | 1.000 | 1.003 |
+
+Probe prediction (output pairwise cosine at step 30 below 0.9, 0.6): **MISS**, 0.9995. The centring did what it should at step
+0 (output cosine 0.0001, S distinct tokens, and the frozen LLM's loss on them is 5.07, matching the 5.35 of training step 1), and
+30 training steps undid it completely: the queries stay distinct (0.0001) but the outputs are S copies of one vector again,
+closer to the collapsed run's 0.9999 than the uncentred warm run's 0.9938. The shared output direction is re-created by the
+attention/o_proj path and `norm_out`, not inherited from the latents.
+
 ## Interpretation
-(pending)
+Removing the shared latent direction did not free the attention branch; it made the init worse and training restored the
+collapsed state within three steps. Three things follow. (1) The mean native-token direction that e008 found dominating the
+warm grid is what made the warm init tolerable to the frozen LLM (loss 1.35 at step 1 with it, 5.35 without it): it is the
+LLM's prior for "a visual token", not an obstacle. (2) The collapsed level (1.15-1.18 over steps 11-37, the same for the random
+init, the warm init and the centred warm init, three different starting points) is an attractor of this training setup, not an
+artefact of any one init: whatever the paper-faithful module starts from, after 10 warmup steps it emits what the e001/e008
+probes measured, one global image vector that the LLM reads for 0.27-0.35 nats and nothing per position. The probe makes this a
+measurement: with the latents pairwise-orthogonal at step 0 and the outputs pairwise-orthogonal (cosine 0.0001), the module
+reaches output cosine 0.9995 by step 30 through its attention/o_proj path alone (the queries are still orthogonal). The
+"collapse" is therefore what gradient descent on this LLM's loss does to any image-independent query grid in the first steps:
+the frozen LLM cannot read S unfamiliar per-position vectors (loss 5.07 on the centred init) and the fastest loss reduction is to
+make every output the one vector the LLM tolerates, after which per-position content has no gradient. (3) The pooled anchor
+(e002) is therefore not "a better init of the same thing" but a different optimisation problem: its per-position content exists
+at step 0 and the LLM's gradient to the module is informative from the first step, which the e003 probe showed the module then
+barely uses (the gains are the compressor lr). Backlog item 3 is closed in all its forms: the paper-faithful learned-query
+Perceiver does not train from a random, a warm, or a centred warm init on LLaVA@66K with a LoRA LLM. The remaining untested cause
+is (c)/schedule length (backlog item 5), which the direction's rule reserves for the case that item 2 also failed; it did not.
 
 ## Next
-(pending)
+No further warm-start variants (pre-registered). The direction's open question is now only the lr attribution (e009, running)
+and whether it holds at 8x where the learned_residual gain is largest (+14.1 MMBench, +177 MME): e011. The WarmC run dir
+(checkpoint-30) stays in place, read only.

diff --git a/research/experiments/perceiver-learned/e011.md b/research/experiments/perceiver-learned/e011.md
@@ -1,0 +1,69 @@
+---
+id: e011
+direction: perceiver-learned
+batch: b011
+parent: e009
+status: planned
+created: 2026-11-10T17:15:00
+sha: null
+cluster: ascend
+jobs: []
+config:
+  tier: training tier 3 (nextgen, chain of 4 x 4 h segments, afterany; seg1 this wake, seg2-4 appended as in-flight ids free, as e006); eval tier 3 (nextgen array, afterok last segment). No separate smoke because the exact command ran at 4x in e009 (smoke + 127 steps so far) and the 8x pooled path ran for the tex pooled 8x row and e006
+  queries: pooled
+  ratio: 8x
+  recipe: SFT_perceiver.sh unchanged (Paranioar/NEO1_0-2B-SFT, llava_665k%10, LoRA lr 2e-5, global batch 128, 488 steps, warmup 10)
+  compressor_lr: 1e-3 (the tex pooled 8x row used 2e-5; e006 learned_residual 8x used 1e-3)
+  run_name: NEO_continue_SFT_LLaVA_OV_llava66k_PerceiverLr1e3_8x
+  config_key: NEO-2B-SFT-OV-LLaVA-llava66k-PerceiverLr1e3-8x
+  eval: MMBench_DEV_EN + MME + DocVQA_VAL (the three benchmarks where e006 found the largest gains), appended after seg4; the other five only if the budget allows at that wake
+metrics: {}
+gpu_hours: null
+---
+## Hypothesis
+The lr-only control at the ratio where the "learned queries" gain is largest. e006 found the learned_residual 8x row 14.1 MMBench
+and 177 MME above the tex pooled 8x row (loss paired -0.057), the one number in this direction a reader will question; e003
+attributed the learned_residual gains to the compressor lr (1e-3 vs 2e-5), and e009 (pooled queries at lr 1e-3, 4x) has so far
+tracked the learned_residual 4x curve within 0.01-0.02 nats for 127 steps while leaving the pooled-2e-5 curve by 0.08. If the
+attribution holds, `pooled` queries at compressor lr 1e-3 reproduce the learned_residual 8x run (loss curve and MMBench / MME /
+DocVQA) and the whole Perceiver block of `tab:training-based` becomes "pooled queries, compressor lr 1e-3" with the learned
+variants as a footnote. If instead the 8x gain needs the latents or the gated attention, this row stays near the pooled 8x
+row (MMBench about 44) and the learned_residual 8x row stands as a genuine architecture result. Submitted before e009's gate
+because the e009 loss evidence is already strong, the nextgen queue is 370 jobs deep (priority accrues while pending), and
+the budget fits (about 15 GPU-h of the 29 remaining after e009's commitments).
+
+## Prediction (before submission)
+- Throughput 86-89 s/step (0.8; same token count as the pooled and learned_residual 8x runs); seg4 under 30 min (0.6).
+- Steps 1-2 bit-identical to the pooled 8x and learned_residual 8x runs (same init, same data order, compressor lr 0 and 1e-4
+  at steps 1-2 move nothing the loss sees before step 3): 0.7.
+- Training (488 steps): MA-10 at 488 in 0.975-1.005 (0.6; learned_residual 8x 0.9905, pooled 8x 1.0488). Paired vs the
+  learned_residual 8x run over steps 1-488 within +/-0.010 nats (0.55); paired vs the pooled 8x run below -0.040 (0.65).
+- Eval: MMBench 54-61 (0.55), MME 1180-1260 (0.55), DocVQA 10-12 (0.6). Reproduces at least half of e006's gain over the tex
+  pooled 8x row: MMBench >= 51.1 (+7.0) and MME >= 1138 (+88) (0.6). If instead the latents or the gated attention matter at
+  8x: MMBench <= 48 and MME <= 1100 (0.25).
+- Cost: training 12.25 GPU-h (4 x 4 h minus the idle part of seg4, as e006), eval about 2.6 (MMBench 0.5 + MME 0.4 + DocVQA
+  1.7, from the e006 task times), total about 14.9; the five remaining benchmarks would add about 2.1.
+
+## Change
+No code change: `SFT_perceiver.sh` already maps `QUERIES=pooled COMP_LR=1e-3` to run name `PerceiverLr1e3` (e009) and
+`config.py` already has `NEO-2B-SFT-OV-LLaVA-llava66k-PerceiverLr1e3-{2,4,8}x`. Pre-submit check on the login node from /tmp in
+the neo env (2026-11-10 17:07): the 8x key resolves in `supported_VLM` to `compression_ratio=0.125`, `perceiver_queries=pooled`,
+`perceiver_path` under `..._PerceiverLr1e3_8x`; the output dir is absent. Jobs from `$WT/VLMEvalKit/vlmeval/VLMTrainKit` on the
+OSC checkout at the sha above with `RATIO=8 COMP_LR=1e-3 REPO=$WT` exported, `--export=ALL`, `--time=4:00:00`, nextgen, names
+`plp8x_seg<k>`, logs `logs/plp8x_seg<k>_<id>.log`. In-flight cap 6: this wake submits seg1 only (e009 holds 5 ids); seg2-4
+(`afterany` on the previous) and the eval array (`afterok` seg4, `MODELS=NEO-2B-SFT-OV-LLaVA-llava66k-PerceiverLr1e3-8x
+DATASETS="MMBench_DEV_EN MME DocVQA_VAL"`, `--array=0-2`, `--time=3:00:00`, `scripts/eval_table2.sbatch`) are appended at later
+wakes as ids free. A segment without a successor ends at walltime with its checkpoint and the next segment resumes it.
+Output dir `$SCRATCH/VTC-Native-Eval-ckpts/output/NEO_continue_SFT_LLaVA_OV_llava66k_PerceiverLr1e3_8x` (absent at submission).
+Abort rule: at the seg1-boundary wake, if the paired loss vs learned_residual 8x over steps 1-160 is above +0.030 *and* e009's
+curve has by then left the learned_residual 4x curve by the same amount, scancel the remaining segments and record (the
+attribution would already be refuted at 4x, and the 8x row would cost 8 more GPU-h for a confirmation).
+
+## Outcome
+(pending)
+
+## Interpretation
+(pending)
+
+## Next
+(pending)

diff --git a/research/directions/perceiver-learned.md b/research/directions/perceiver-learned.md
@@ -8,7 +8,7 @@ cluster: ascend
 status: active
 wake: on_jobs
 budget_gpu_hours: 100
-spent_gpu_hours: 55.2
+spent_gpu_hours: 58.5
 max_jobs_in_flight: 6
 jobs:
 - 8489021
@@ -16,8 +16,9 @@ jobs:
 - 8489023
 - 8489024
 - 8490000
-- 8493342
 jobs_archived:
+- 8493342
+- 8495437
 - 8489019
 - 8489020
 - 8472979
@@ -54,13 +55,13 @@ jobs_archived:
 - 8453615
 - 8461970
 - 8461971
-last_wake: '2026-11-10T15:35:00-05:00'
+last_wake: '2026-11-10T15:40:01-05:00'
 next_id: 11
 model: claude-fable-5-1
 effort: high
 max_turns: 120
 timeout_minutes: 60
-wakes: 16
+wakes: 17
 ---
 # Why does the learned-query Perceiver collapse, and what fixes it?
 
@@ -133,8 +134,9 @@ result; record it as such if backlog items 2-4 all fail.
    Prediction (0.4): MMBench 68-73, DocVQA 25-35; if the step-5 smoke loss is above 1.2 abort and record.
    *(Closed 2026-11-10 by e005/e007/e008: no-go. 3b, optional, 1 GPU-h: the same warm start with the latent grid centred
    (mean token direction removed), one 1 h real-schedule segment scored as e007; e008 measured the shared latent direction,
-   not the attention, as what keeps the outputs alike. 3b submitted 2026-11-10 as e010: centred latents at their own
-   0.82 RMS, 1 h segment on debug-nextgen, same go rule as e007.)*
+   not the attention, as what keeps the outputs alike. 3b run 2026-11-10 as e010: centred latents at their own
+   0.82 RMS, 1 h segment on debug-nextgen, same go rule as e007: NO-GO, steps 25-37 mean 1.158, +0.015 above the uncentred
+   warm run and +0.011 above the collapsed run on the same batches; step-1 loss 5.35. Item 3 closed in all forms.)*
 4. **Only if 2 or 3 passes the gate:** full 8-benchmark eval of the passing variant at 2x, then train and
    evaluate 4x and 8x with the same variant (2 x 12 h + 2 x 4.5 GPU-h). Prediction (0.5): the learned variant
    is within 2 pts of pooled at every ratio on MMBench and within 5 on DocVQA; no variant beats ToMe on OCR.

diff --git a/research/experiments/perceiver-learned/e009.md b/research/experiments/perceiver-learned/e009.md
@@ -130,6 +130,20 @@ The lr-only run has left the pooled-2e-5 curve by 0.11 nats and sits on (lately 
 the "within +/-0.010 of learned_residual over 1-488" prediction is on track at -0.002 over 1-70, and "below pooled by more than
 0.025" is far exceeded. Not scored until step 488 and the gate. Seg1 ends about 17:52 near step 160.
 
+### Seg1 at step 127 (2026-11-10 17:10 wake)
+Seg1 8489021 at 3:15, step 127 (checkpoint-120), 88.3 s/step. Paired via `figures/loss_curves.json`:
+
+| steps | this (pooled, lr 1e-3) | pooled 4x (lr 2e-5) | learned_residual 4x | this - pooled (sd) | this - learned_residual (sd) |
+|---|---|---|---|---|---|
+| 1-127 | 0.992 | 1.071 | 1.002 | -0.079 (0.038) | -0.009 (0.019) |
+| 21-127 | 0.956 | 1.047 | 0.970 | -0.092 (0.025) | -0.014 (0.013) |
+| 71-127 | 0.931 | 1.010 | 0.949 | -0.079 (0.018) | -0.018 (0.008) |
+| 101-127 | 0.924 | 0.992 | 0.940 | -0.068 (0.015) | -0.016 (0.008) |
+
+Unchanged picture: the lr-only run sits 0.015 below the learned_residual curve (steady since step 40) and 0.07-0.09 below the
+pooled-2e-5 curve. One grad-norm excursion (5.67 at step 29); none since. Seg1 ends about 17:52 near step 160; seg2 8489022
+pending (`afterany`), 371 jobs pending on nextgen.
+
 ## Interpretation
 (pending)
 
